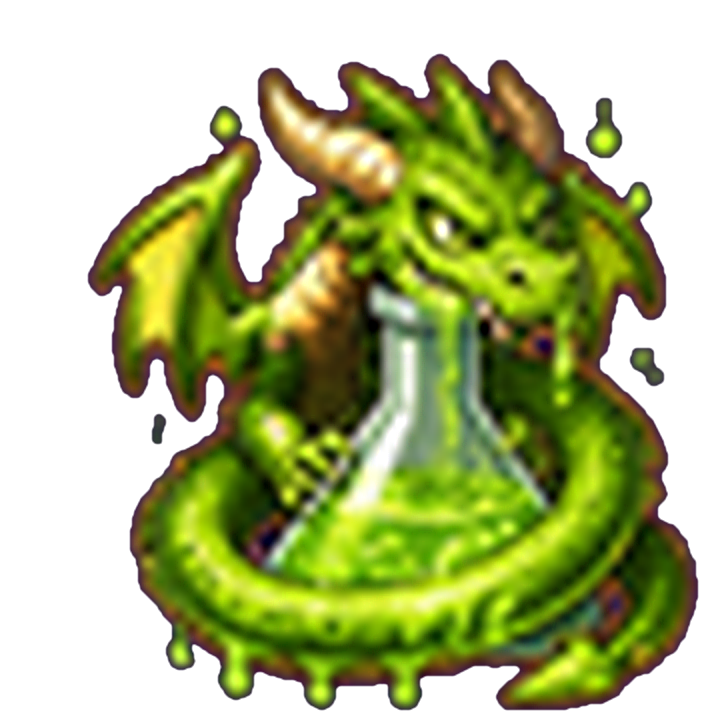
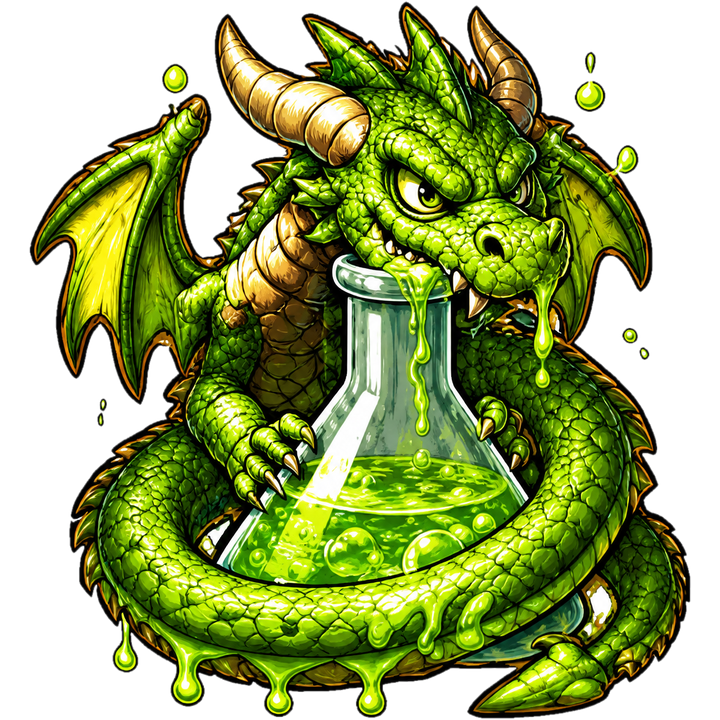
Round 55: high-res acid dragon boss image
Claude-Session: https://claude.ai/code/session_0141mC6AK37tgdPj56nyP2GC

diff --git a/index.html b/index.html
@@ -6,7 +6,7 @@
 <title>Chemistria · ห้องเรียนครูบุ๊ค</title>
 <link rel="preconnect" href="https://fonts.googleapis.com">
 <link href="https://fonts.googleapis.com/css2?family=Prompt:wght@500;700&family=Sarabun:wght@400;600;700&display=swap" rel="stylesheet">
-<link rel="stylesheet" href="style.css?v=1.54">
+<link rel="stylesheet" href="style.css?v=1.55">
 <link rel="icon" type="image/svg+xml" href="assets/icon/icon.svg"><link rel="icon" type="image/png" sizes="32x32" href="assets/icon/favicon-32.png"><link rel="apple-touch-icon" href="assets/icon/apple-touch-icon.png"><link rel="manifest" href="manifest.webmanifest"><meta name="theme-color" content="#2a1766">
 </head>
 <body>
@@ -14,18 +14,18 @@
 <div id="overlay" class="overlay"></div>
 
 <script src="https://cdn.jsdelivr.net/npm/@supabase/supabase-js@2"></script>
-<script src="config.js?v=1.54"></script>
-<script src="lib.js?v=1.54"></script>
-<script src="sfx.js?v=1.54"></script>
-<script src="pixelfx.js?v=1.54"></script>
-<script src="fx.js?v=1.54"></script>
-<script src="games.js?v=1.54"></script>
-<script src="battle.js?v=1.54"></script>
-<script src="duel.js?v=1.54"></script>
-<script src="spell.js?v=1.54"></script>
-<script src="kb.js?v=1.54"></script>
+<script src="config.js?v=1.55"></script>
+<script src="lib.js?v=1.55"></script>
+<script src="sfx.js?v=1.55"></script>
+<script src="pixelfx.js?v=1.55"></script>
+<script src="fx.js?v=1.55"></script>
+<script src="games.js?v=1.55"></script>
+<script src="battle.js?v=1.55"></script>
+<script src="duel.js?v=1.55"></script>
+<script src="spell.js?v=1.55"></script>
+<script src="kb.js?v=1.55"></script>
 <script src="run.js?v=1.46"></script>
-<script src="bgm.js?v=1.54"></script>
+<script src="bgm.js?v=1.55"></script>
 <script>
 const TABS = [
   ["home", "🏠 หน้าหลัก"], ["att", "📋 เช็คชื่อ/งาน"], ["cal", "📅 ปฏิทิน"], ["score", "🧮 คะแนน"],
@@ -145,7 +145,7 @@ function newsClose() { document.getElementById("newsov")?.remove(); }
 document.addEventListener("keydown", (e) => { if (e.key === "Escape") newsClose(); });
 
 /* ---------------- ประกาศอัปเดต (patch notes) ---------------- */
-const APP_VERSION = "1.54";
+const APP_VERSION = "1.55";
 const PATCH = {
   id: "2026-11-07b", ver: APP_VERSION, title: "ไอเทมใหม่มาแล้ว! 🎉", date: "7 พ.ย. 2569", img: "assets/news/items.jpg",
   items: [

diff --git a/admin.html b/admin.html
@@ -6,7 +6,7 @@
 <title>Chemistria · แอดมินครูบุ๊ค</title>
 <link rel="preconnect" href="https://fonts.googleapis.com">
 <link href="https://fonts.googleapis.com/css2?family=Prompt:wght@500;700&family=Sarabun:wght@400;600;700&display=swap" rel="stylesheet">
-<link rel="stylesheet" href="style.css?v=1.54">
+<link rel="stylesheet" href="style.css?v=1.55">
 <style>.wrap{max-width:1180px} h4{margin:14px 0 6px} .inbox .item{flex-wrap:wrap}</style>
 <link rel="icon" type="image/svg+xml" href="assets/icon/icon.svg"><link rel="icon" type="image/png" sizes="32x32" href="assets/icon/favicon-32.png"><link rel="apple-touch-icon" href="assets/icon/apple-touch-icon.png"><link rel="manifest" href="manifest.webmanifest"><meta name="theme-color" content="#2a1766">
 </head>
@@ -14,8 +14,8 @@
 <div id="app" class="wrap"></div>
 <script src="https://cdn.jsdelivr.net/npm/@supabase/supabase-js@2"></script>
 <script src="https://cdn.jsdelivr.net/npm/xlsx@0.18.5/dist/xlsx.full.min.js"></script>
-<script src="config.js?v=1.54"></script>
-<script src="lib.js?v=1.54"></script>
+<script src="config.js?v=1.55"></script>
+<script src="lib.js?v=1.55"></script>
 <script>
 const app = $("#app");
 const S = { classes: [], cls: null, tab: "students", attDate: todayStr(), asg: null, item: null };
